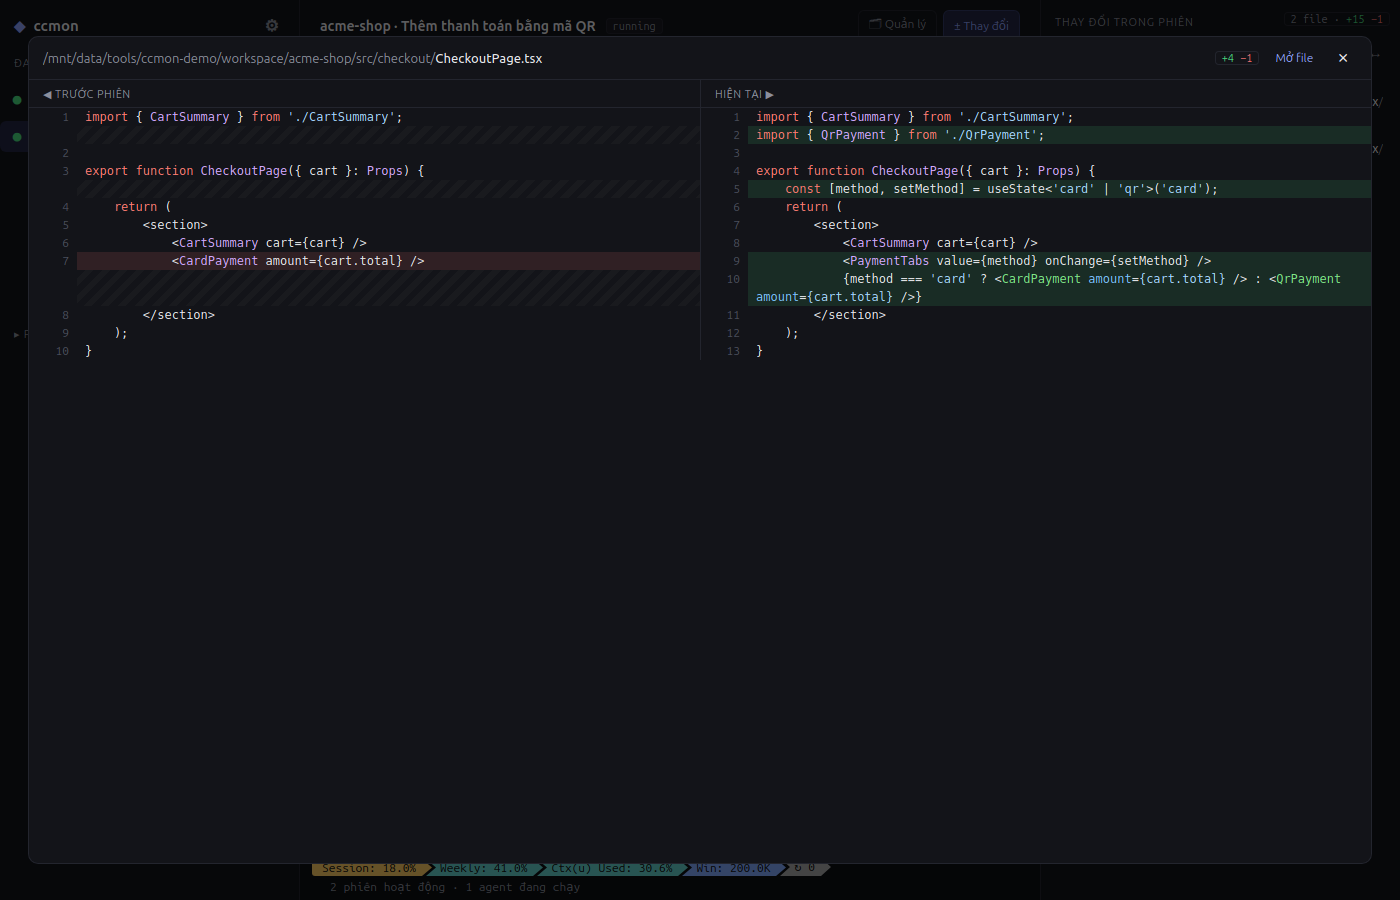
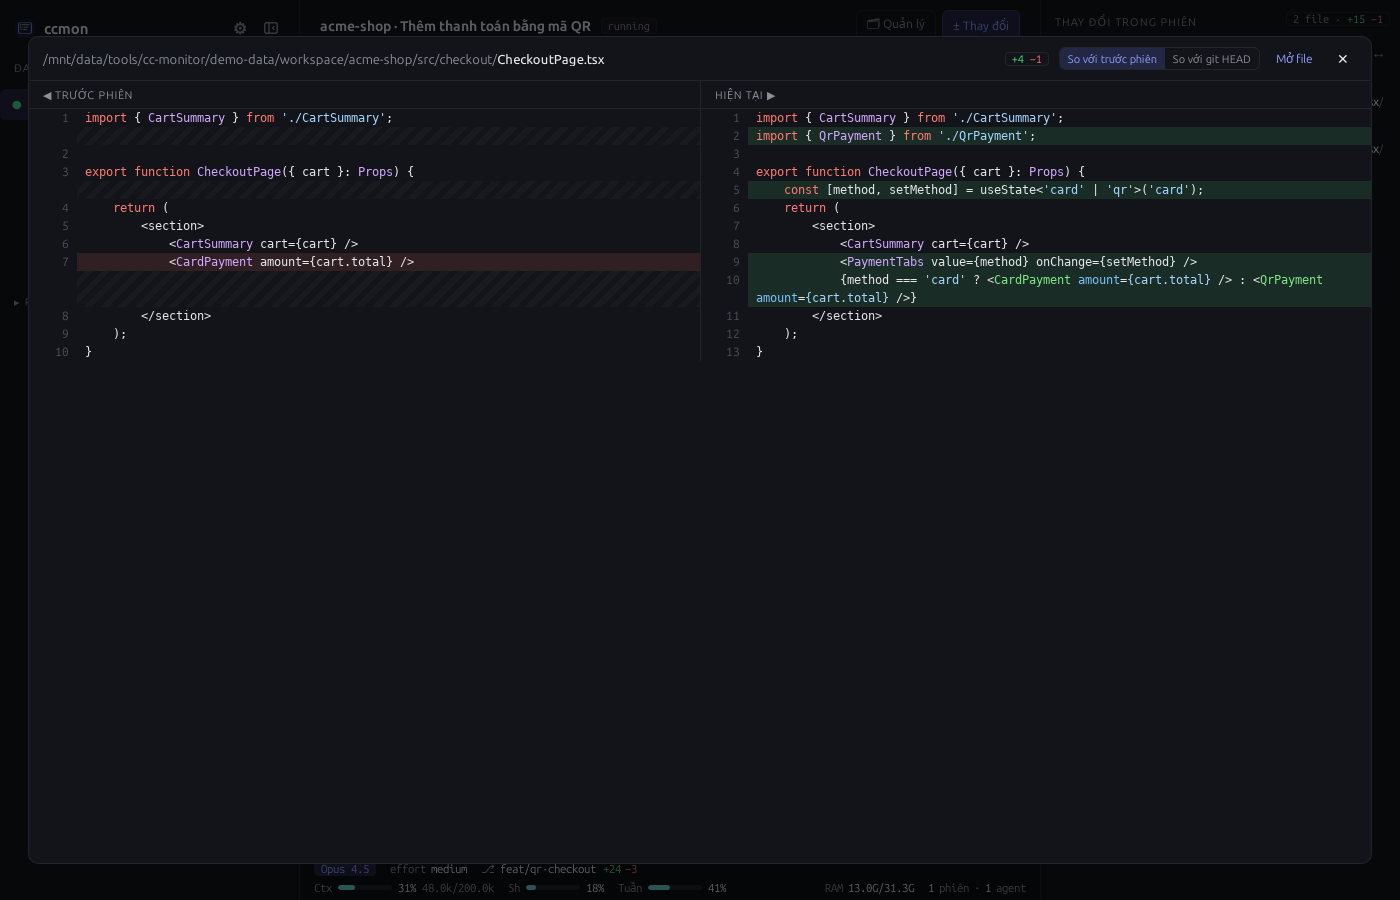
website: Claude Code only; refresh screenshots
- Remove Codex from the copy (EN and VI), meta tags, tool tags and FAQ;
  setup section now describes the Claude Code-only first run.
- Retake screen-main, screen-setup and screen-diff from the real app
  (demo data under Xvfb) so they show the new sidebar, activity line and
  status bar; drop the unused screen-codex.png.
- App window title and bundle descriptions no longer mention Codex.

diff --git a/website/index.html b/website/index.html
@@ -4,9 +4,9 @@
   <meta charset="utf-8" />
   <meta name="viewport" content="width=device-width, initial-scale=1" />
   <title>ccmon — See what your AI coding agent is doing</title>
-  <meta name="description" content="ccmon is a free, open-source desktop app that shows Claude Code and Codex sessions live: every prompt, tool call, sub-agent, workflow, file change and plan limit. Local and read-only." />
+  <meta name="description" content="ccmon is a free, open-source desktop app that shows Claude Code sessions live: every prompt, tool call, sub-agent, workflow, file change and plan limit. Local and read-only." />
   <meta property="og:title" content="ccmon — See what your AI coding agent is doing" />
-  <meta property="og:description" content="Live monitor for Claude Code and Codex: timeline, sub-agents, workflows, side-by-side diffs, plan usage. Local, read-only, MIT." />
+  <meta property="og:description" content="Live monitor for Claude Code: timeline, sub-agents, workflows, side-by-side diffs, plan usage. Local, read-only, MIT." />
   <meta property="og:image" content="assets/screen-main.png" />
   <link rel="icon" href="assets/favicon.png" />
   <link rel="preconnect" href="https://fonts.googleapis.com" />
@@ -15,7 +15,7 @@
   <style>
     :root {
       --bg: #0a0b10; --panel: #12131a; --panel-2: #181a23; --border: #23252f; --text: #e8e9ee; --muted: #9196a5;
-      --accent: #8ea2ff; --accent-2: #b48cff; --green: #4ade80; --claude: #f0a46c; --codex: #7cc4f0;
+      --accent: #8ea2ff; --accent-2: #b48cff; --green: #4ade80; --claude: #f0a46c;
     }
     * { box-sizing: border-box; }
     html { scroll-behavior: smooth; }
@@ -55,7 +55,6 @@
     .tools { margin-top: 26px; display: flex; gap: 10px; justify-content: center; font-size: 13px; color: var(--muted); align-items: center; flex-wrap: wrap; }
     .tag { font-size: 12px; font-weight: 600; padding: 3px 9px; border-radius: 6px; }
     .tag.claude { background: #3a2a1f; color: var(--claude); }
-    .tag.codex { background: #1f2f3a; color: var(--codex); }
 
     .shot { margin: 56px auto 0; max-width: 1120px; border-radius: 14px; border: 1px solid var(--border); background: var(--panel); box-shadow: 0 40px 120px -30px rgba(142,162,255,.35), 0 0 0 1px rgba(255,255,255,.03); overflow: hidden; }
     .shot .bar { display: flex; gap: 7px; padding: 11px 14px; border-bottom: 1px solid var(--border); }
@@ -137,7 +136,7 @@
     <div class="wrap">
       <span class="badge"><b>●</b> <span data-i18n="hero.badge">Free &amp; open source · MIT · Windows &amp; Linux</span></span>
       <h1><span data-i18n="hero.t1">See what your</span> <span class="grad" data-i18n="hero.t2">AI coding agent</span> <span data-i18n="hero.t3">is doing — live.</span></h1>
-      <p class="sub" data-i18n="hero.sub">ccmon turns Claude Code and Codex sessions into a clean, real-time view: every prompt, command, file edit, sub-agent and workflow, with side-by-side diffs and plan usage. It only reads what the agents already save on your machine.</p>
+      <p class="sub" data-i18n="hero.sub">ccmon turns Claude Code sessions into a clean, real-time view: every prompt, command, file edit, sub-agent and workflow, with side-by-side diffs and plan usage. It only reads what the agents already save on your machine.</p>
       <div class="cta">
         <a class="btn btn-primary dl" id="dl-win" href="https://github.com/thanhson0514/cc-monitor/releases/latest">
           <svg viewBox="0 0 24 24" fill="none" stroke="currentColor" stroke-width="2.2"><path d="M12 3v12m0 0l-5-5m5 5l5-5M4 21h16"/></svg>
@@ -152,7 +151,7 @@
           <span data-i18n="hero.star">Star on GitHub</span>
         </a>
       </div>
-      <div class="tools"><span data-i18n="hero.works">Works with</span> <span class="tag claude">Claude Code</span> <span class="tag codex">Codex</span></div>
+      <div class="tools"><span data-i18n="hero.works">Works with</span> <span class="tag claude">Claude Code</span></div>
       <div class="dl-other" id="dl-other"></div>
       <div class="shot"><div class="bar"><i></i><i></i><i></i></div><img src="assets/screen-main.png" alt="ccmon main window: session tree, chat timeline with tool cards, file sidebar and status bar" /></div>
     </div>
@@ -192,15 +191,15 @@
 
   <section>
     <div class="wrap split rev">
-      <div class="shot"><div class="bar"><i></i><i></i><i></i></div><img src="assets/screen-setup.png" alt="First-run setup: choose Claude Code or Codex" /></div>
+      <div class="shot"><div class="bar"><i></i><i></i><i></i></div><img src="assets/screen-setup.png" alt="First-run setup for Claude Code" /></div>
       <div>
-        <div class="eyebrow" data-i18n="s.eyebrow">Two-click setup</div>
-        <h2 data-i18n="s.title">Pick Claude Code, Codex, or both</h2>
-        <p class="lead" data-i18n="s.lead">On first launch ccmon detects which agents are installed and asks which to monitor. Change it any time from ⚙ Settings.</p>
+        <div class="eyebrow" data-i18n="s.eyebrow">One-click setup</div>
+        <h2 data-i18n="s.title">Point it at Claude Code and go</h2>
+        <p class="lead" data-i18n="s.lead">On first launch ccmon finds your Claude Code data and starts watching. Change the options any time from ⚙ Settings.</p>
         <ul class="checks">
-          <li data-i18n="s.c1">Codex: nothing to configure — limits and tokens come from the session itself</li>
+          <li data-i18n="s.c1">Nothing to install in Claude Code: ccmon reads the transcripts it already writes</li>
           <li data-i18n="s.c2">Claude Code: optionally wrap your status line to read plan usage (backed up, one-click undo)</li>
-          <li data-i18n="s.c3">Sessions from both tools side by side, tagged by tool</li>
+          <li data-i18n="s.c3">Every open session in one list, with a live “working” or “waiting” badge</li>
         </ul>
       </div>
     </div>
@@ -211,8 +210,8 @@
       <div class="eyebrow" data-i18n="h.eyebrow">How it works</div>
       <h2 data-i18n="h.title">Nothing to change in how you work</h2>
       <div class="steps">
-        <div class="step"><h3 data-i18n="h1.t">Keep using your agent</h3><p data-i18n="h1.d">Run Claude Code or Codex in the terminal or your editor, exactly as today.</p></div>
-        <div class="step"><h3 data-i18n="h2.t">ccmon reads the transcript</h3><p data-i18n="h2.d">It tails <code>~/.claude/projects</code> and <code>~/.codex/sessions</code> (about 0.4 s latency) and builds the thread tree.</p></div>
+        <div class="step"><h3 data-i18n="h1.t">Keep using your agent</h3><p data-i18n="h1.d">Run Claude Code in the terminal or your editor, exactly as today.</p></div>
+        <div class="step"><h3 data-i18n="h2.t">ccmon reads the transcript</h3><p data-i18n="h2.d">It tails <code>~/.claude/projects</code> (about 0.4 s latency) and builds the thread tree.</p></div>
         <div class="step"><h3 data-i18n="h3.t">Watch, review, follow up</h3><p data-i18n="h3.d">See each step as it happens, open sub-agents, review diffs and files, then go back to your agent.</p></div>
       </div>
     </div>
@@ -229,7 +228,7 @@
           <ol>
             <li data-i18n="i.w1">Download <code>ccmon_x.y.z_x64-setup.exe</code> from the latest release.</li>
             <li data-i18n="i.w2">Run it — installs for your user only, no admin rights needed. WebView2 is installed automatically if missing.</li>
-            <li data-i18n="i.w3">Open <b>ccmon</b> from the Start menu and choose your tools.</li>
+            <li data-i18n="i.w3">Open <b>ccmon</b> from the Start menu and click <b>Start</b>.</li>
           </ol>
         </div>
         <div class="pane" id="tab-linux">
@@ -252,10 +251,10 @@ cargo run --release -p cc-monitor   # terminal UI</code></pre>
     <div class="wrap">
       <div class="eyebrow">FAQ</div>
       <h2 data-i18n="q.title">Questions</h2>
-      <details><summary data-i18n="q1.q">Is ccmon made by Anthropic or OpenAI?</summary><p data-i18n="q1.a">No. ccmon is an independent community project. Claude Code is a product of Anthropic and Codex of OpenAI; ccmon is not affiliated with or endorsed by either.</p></details>
+      <details><summary data-i18n="q1.q">Is ccmon made by Anthropic?</summary><p data-i18n="q1.a">No. ccmon is an independent community project. Claude Code is a product of Anthropic; ccmon is not affiliated with or endorsed by Anthropic.</p></details>
       <details><summary data-i18n="q2.q">Does it send my code or prompts anywhere?</summary><p data-i18n="q2.a">No. Everything stays on your machine. ccmon makes no network requests and has no telemetry.</p></details>
       <details><summary data-i18n="q3.q">Can it change my sessions or settings?</summary><p data-i18n="q3.a">It only reads. The single exception is opt-in: wrapping Claude Code's status line to read plan usage, which backs up settings.json and can be undone from Settings.</p></details>
-      <details><summary data-i18n="q4.q">Why can't I see the model's full thinking?</summary><p data-i18n="q4.a">Claude Code and Codex store reasoning encrypted or omit it from transcripts. ccmon shows what is saved: short progress notes and thinking time.</p></details>
+      <details><summary data-i18n="q4.q">Why can't I see the model's full thinking?</summary><p data-i18n="q4.a">Claude Code stores reasoning encrypted or omits it from transcripts. ccmon shows what is saved: short progress notes and thinking time.</p></details>
       <details><summary data-i18n="q5.q">Can I use it commercially or modify it?</summary><p data-i18n="q5.a">Yes — MIT license. To change the code, please fork the repository and open a pull request, or report problems as issues.</p></details>
     </div>
   </section>
@@ -263,7 +262,7 @@ cargo run --release -p cc-monitor   # terminal UI</code></pre>
   <footer>
     <div class="wrap">
       <div>© 2026 Lê Thanh Sơn · <a href="https://github.com/thanhson0514/cc-monitor/blob/main/LICENSE">MIT License</a></div>
-      <div data-i18n="foot.tm">Claude Code is a trademark of Anthropic. Codex is a trademark of OpenAI. Not affiliated.</div>
+      <div data-i18n="foot.tm">Claude Code is a trademark of Anthropic. Not affiliated.</div>
       <div><a href="https://github.com/thanhson0514/cc-monitor/issues" data-i18n="foot.issue">Report an issue</a></div>
     </div>
   </footer>
@@ -273,7 +272,7 @@ cargo run --release -p cc-monitor   # terminal UI</code></pre>
       'nav.features': 'Tính năng', 'nav.install': 'Cài đặt',
       'hero.badge': 'Miễn phí & mã nguồn mở · MIT · Windows & Linux',
       'hero.t1': 'Xem', 'hero.t2': 'AI coding agent', 'hero.t3': 'đang làm gì — theo thời gian thực.',
-      'hero.sub': 'ccmon biến các phiên Claude Code và Codex thành một màn hình gọn gàng, cập nhật trực tiếp: từng prompt, lệnh, file đã sửa, subagent và workflow, kèm diff hai cột và hạn mức gói. Ứng dụng chỉ đọc những gì agent đã tự lưu trên máy bạn.',
+      'hero.sub': 'ccmon biến các phiên Claude Code thành một màn hình gọn gàng, cập nhật trực tiếp: từng prompt, lệnh, file đã sửa, subagent và workflow, kèm diff hai cột và hạn mức gói. Ứng dụng chỉ đọc những gì agent đã tự lưu trên máy bạn.',
       'hero.download': 'Tải về', 'hero.star': 'Star trên GitHub', 'hero.works': 'Hỗ trợ',
       'f.eyebrow': 'Tính năng', 'f.title': 'Mọi việc agent làm, trong một cửa sổ',
       'f.lead': 'Thôi cuộn terminal để đoán chuyện gì đã xảy ra. ccmon theo dõi phiên chính và mọi agent nó tạo ra, ngay khi chúng làm việc.',
@@ -286,26 +285,26 @@ cargo run --release -p cc-monitor   # terminal UI</code></pre>
       'd.eyebrow': 'Xem thay đổi', 'd.title': 'Chính xác đã sửa những gì?', 'd.lead': 'Mở “Thay đổi” để xem mọi file phiên đã đụng vào và so sánh từng file hai cột.',
       'd.c1': 'Bản gốc “trước phiên” lấy từ bản sao lưu file của chính Claude Code — không cần git',
       'd.c2': 'Chuyển sang so với git HEAD khi file nằm trong repo', 'd.c3': 'Gấp đoạn không đổi, tô màu cú pháp',
-      's.eyebrow': 'Thiết lập hai cú nhấp', 's.title': 'Chọn Claude Code, Codex, hoặc cả hai',
-      's.lead': 'Lần mở đầu tiên, ccmon tự dò công cụ đã cài và hỏi bạn muốn theo dõi cái nào. Đổi lại bất cứ lúc nào ở ⚙ Cài đặt.',
-      's.c1': 'Codex: không cần cấu hình — hạn mức và token lấy thẳng từ phiên',
-      's.c2': 'Claude Code: tuỳ chọn bọc status line để đọc hạn mức (có sao lưu, gỡ một chạm)', 's.c3': 'Phiên của cả hai công cụ cạnh nhau, gắn nhãn theo công cụ',
+      's.eyebrow': 'Thiết lập một cú nhấp', 's.title': 'Trỏ vào Claude Code là chạy',
+      's.lead': 'Lần mở đầu tiên, ccmon tự tìm dữ liệu Claude Code và bắt đầu theo dõi. Đổi tuỳ chọn bất cứ lúc nào ở ⚙ Cài đặt.',
+      's.c1': 'Không phải cài gì vào Claude Code: ccmon đọc transcript mà nó vốn đã ghi',
+      's.c2': 'Claude Code: tuỳ chọn bọc status line để đọc hạn mức (có sao lưu, gỡ một chạm)', 's.c3': 'Mọi phiên đang mở trong một danh sách, có nhãn “đang làm” hoặc “chờ” cập nhật trực tiếp',
       'h.eyebrow': 'Cách hoạt động', 'h.title': 'Không phải đổi cách bạn làm việc',
-      'h1.t': 'Dùng agent như thường', 'h1.d': 'Chạy Claude Code hoặc Codex trong terminal hay editor, y như hiện tại.',
-      'h2.t': 'ccmon đọc transcript', 'h2.d': 'Theo dõi <code>~/.claude/projects</code> và <code>~/.codex/sessions</code> (trễ khoảng 0,4 giây) và dựng cây luồng.',
+      'h1.t': 'Dùng agent như thường', 'h1.d': 'Chạy Claude Code trong terminal hay editor, y như hiện tại.',
+      'h2.t': 'ccmon đọc transcript', 'h2.d': 'Theo dõi <code>~/.claude/projects</code> (trễ khoảng 0,4 giây) và dựng cây luồng.',
       'h3.t': 'Theo dõi, xem lại, làm tiếp', 'h3.d': 'Xem từng bước khi nó diễn ra, mở subagent, xem diff và file, rồi quay lại agent.',
       'i.eyebrow': 'Cài đặt', 'i.title': 'Tải về và chạy', 'i.lead': 'Bộ cài được GitHub Actions build cho mỗi bản phát hành.', 'i.src': 'Từ mã nguồn',
       'i.w1': 'Tải <code>ccmon_x.y.z_x64-setup.exe</code> ở bản phát hành mới nhất.',
       'i.w2': 'Chạy file — cài cho riêng tài khoản của bạn, không cần quyền admin. WebView2 tự cài nếu máy chưa có.',
-      'i.w3': 'Mở <b>ccmon</b> từ Start menu và chọn công cụ.',
+      'i.w3': 'Mở <b>ccmon</b> từ Start menu rồi bấm <b>Bắt đầu</b>.',
       'i.l1': 'Tải <code>ccmon_x.y.z_amd64.deb</code> ở bản phát hành mới nhất (Debian, Ubuntu và các bản dựa trên chúng).', 'i.l2': 'Cài đặt rồi mở <b>ccmon</b> từ menu ứng dụng:',
       'q.title': 'Câu hỏi thường gặp',
-      'q1.q': 'ccmon có phải của Anthropic hay OpenAI không?', 'q1.a': 'Không. ccmon là dự án cộng đồng độc lập. Claude Code là sản phẩm của Anthropic, Codex của OpenAI; ccmon không liên kết và không được hai công ty bảo trợ.',
+      'q1.q': 'ccmon có phải của Anthropic không?', 'q1.a': 'Không. ccmon là dự án cộng đồng độc lập. Claude Code là sản phẩm của Anthropic; ccmon không liên kết và không được Anthropic bảo trợ.',
       'q2.q': 'Ứng dụng có gửi code hay prompt của tôi đi đâu không?', 'q2.a': 'Không. Mọi thứ ở lại trên máy bạn. ccmon không gọi mạng và không có telemetry.',
       'q3.q': 'Nó có sửa phiên hay cài đặt của tôi không?', 'q3.a': 'Chỉ đọc. Ngoại lệ duy nhất là tuỳ chọn: bọc status line của Claude Code để đọc hạn mức — có sao lưu settings.json và gỡ được trong Cài đặt.',
-      'q4.q': 'Sao không xem được toàn bộ phần suy nghĩ của model?', 'q4.a': 'Claude Code và Codex lưu phần suy luận ở dạng mã hoá hoặc không lưu vào transcript. ccmon hiện những gì có: ghi chú tiến độ ngắn và thời gian suy nghĩ.',
+      'q4.q': 'Sao không xem được toàn bộ phần suy nghĩ của model?', 'q4.a': 'Claude Code lưu phần suy luận ở dạng mã hoá hoặc không lưu vào transcript. ccmon hiện những gì có: ghi chú tiến độ ngắn và thời gian suy nghĩ.',
       'q5.q': 'Tôi có được dùng thương mại hay sửa code không?', 'q5.a': 'Có — giấy phép MIT. Muốn sửa code, hãy fork repo và mở pull request, hoặc báo lỗi qua issue.',
-      'foot.tm': 'Claude Code là thương hiệu của Anthropic. Codex là thương hiệu của OpenAI. Không liên kết.', 'foot.issue': 'Báo lỗi'
+      'foot.tm': 'Claude Code là thương hiệu của Anthropic. Không liên kết.', 'foot.issue': 'Báo lỗi'
     };
     const EN = {};
     document.querySelectorAll('[data-i18n]').forEach((el) => (EN[el.dataset.i18n] = el.innerHTML));
